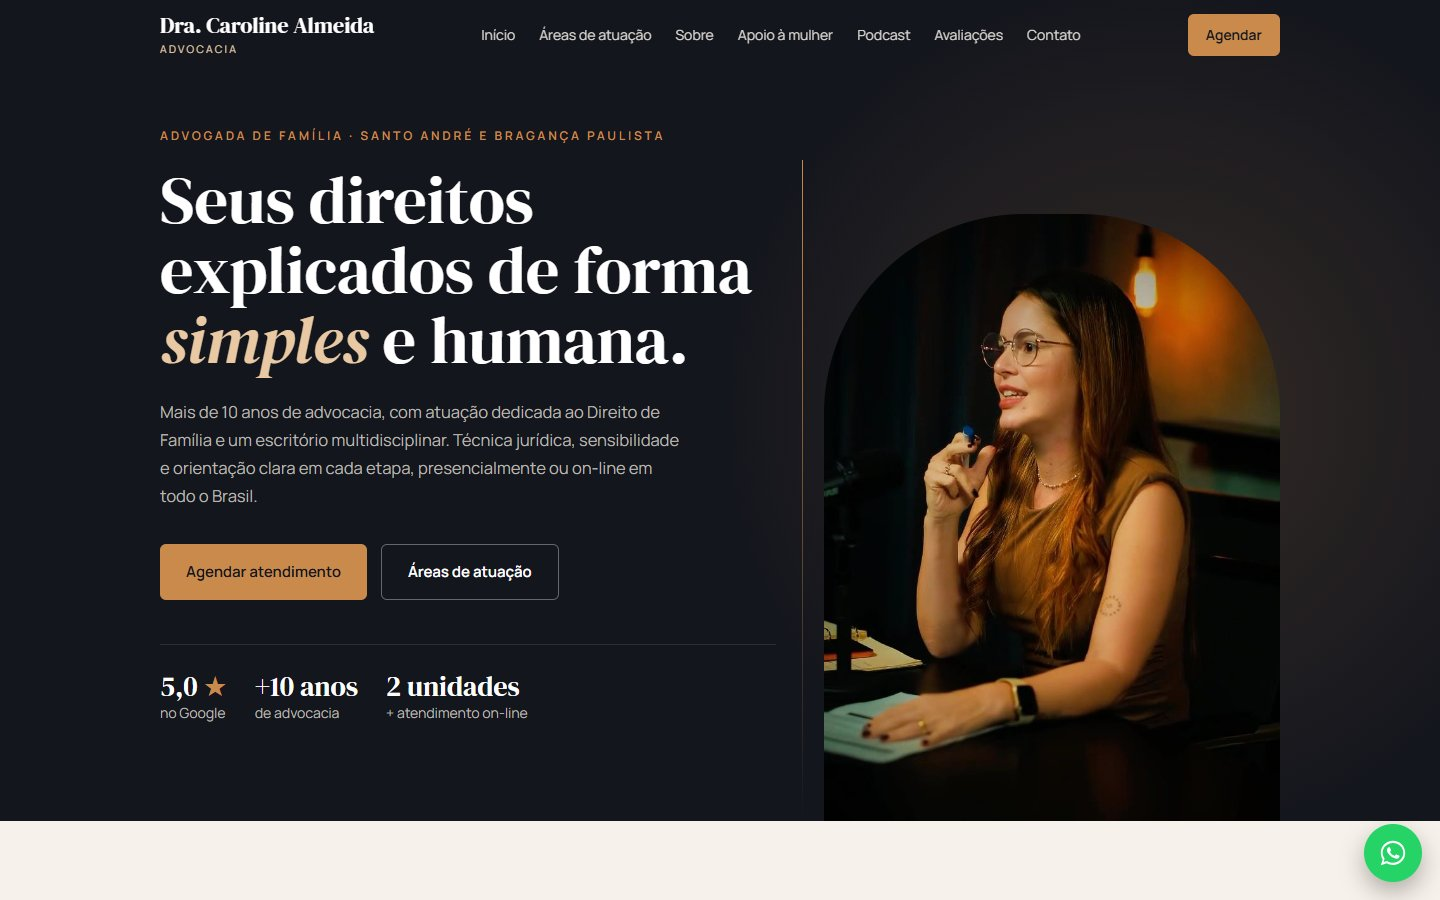
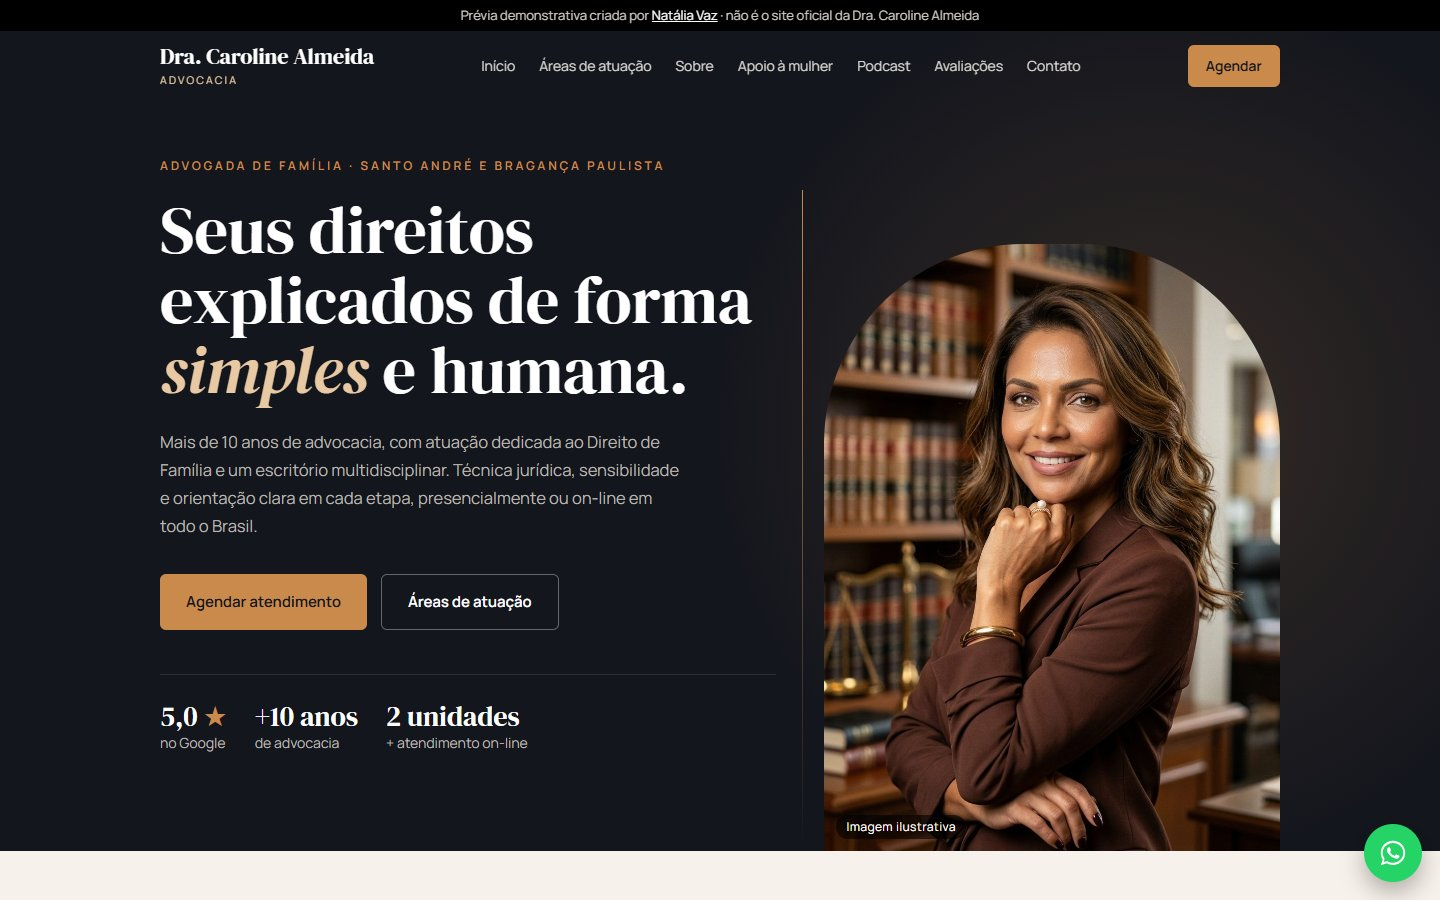
caroline-almeida: fotos ilustrativas (abordagem direta), estúdio de podcast de banco gratuito e faixa de prévia demonstrativa

diff --git a/caroline-almeida/index.html b/caroline-almeida/index.html
@@ -44,6 +44,9 @@ a{color:inherit}
 .kicker{font-size:12px;letter-spacing:.24em;text-transform:uppercase;color:var(--copper);font-weight:600}
 
 /* menu */
+.demo-bar{background:#000;color:#cfcac2;font-size:13px;line-height:1.3;text-align:center;padding:7px 16px}
+.demo-bar a{color:#fff}
+.ilustr{position:absolute;left:12px;bottom:12px;z-index:1;background:rgba(0,0,0,.6);color:#fff;font-size:12px;line-height:1;letter-spacing:.04em;padding:6px 10px;border-radius:20px}
 .nav{position:fixed;inset:0 0 auto;z-index:50;transition:background .3s,border-color .3s;border-bottom:1px solid transparent}
 .nav.solid{background:rgba(20,22,29,.94);backdrop-filter:blur(8px);border-color:rgba(255,255,255,.06)}
 .nav .wrap{display:flex;align-items:center;justify-content:space-between;height:70px}
@@ -68,7 +71,7 @@ a{color:inherit}
 .nav.open .burger span::after{transform:translateY(-6px) rotate(-45deg)}
 @media (max-width:1120px){
   .burger{display:grid}
-  .nav ul{position:fixed;top:70px;left:0;right:0;flex-direction:column;gap:0;background:var(--ink);padding:8px 16px 24px;border-bottom:1px solid rgba(255,255,255,.08);transform:translateY(-8px);opacity:0;visibility:hidden;transition:opacity .25s,transform .25s,visibility .25s}
+  .nav ul{position:absolute;top:100%;left:0;right:0;flex-direction:column;gap:0;background:var(--ink);padding:8px 16px 24px;border-bottom:1px solid rgba(255,255,255,.08);transform:translateY(-8px);opacity:0;visibility:hidden;transition:opacity .25s,transform .25s,visibility .25s}
   .nav ul a{display:block;padding:14px 4px;font-size:17px;border-bottom:1px solid rgba(255,255,255,.07)}
   .nav.open{background:var(--ink)}
   .nav.open ul{opacity:1;transform:none;visibility:visible}
@@ -76,7 +79,7 @@ a{color:inherit}
 @media (max-width:560px){.nav-right .btn.sm{display:none}.brand b{font-size:clamp(17px,5.4vw,24px)}.brand small{letter-spacing:.12em}}
 
 /* hero assimétrico */
-.hero{position:relative;background:var(--ink);color:#e7e3dc;overflow:hidden;padding:120px 0 0}
+.hero{position:relative;background:var(--ink);color:#e7e3dc;overflow:hidden;padding:150px 0 0}
 .hero::after{content:"";position:absolute;right:-10%;top:-20%;width:60%;height:140%;background:radial-gradient(circle,rgba(201,138,75,.18),transparent 60%);pointer-events:none}
 .hero .wrap{position:relative;z-index:1;display:grid;grid-template-columns:1.15fr .85fr;gap:48px;align-items:end}
 .hero-text{padding-bottom:96px}
@@ -91,7 +94,7 @@ a{color:inherit}
 .hero-photo img{width:100%;aspect-ratio:3/4;object-fit:cover;object-position:50% 40%;border-radius:200px 200px 0 0;margin-top:auto}
 .hero-photo::before{content:"";position:absolute;left:-22px;top:40px;bottom:0;width:1px;background:linear-gradient(var(--copper),transparent)}
 @media (max-width:860px){
-  .hero{padding-top:100px}
+  .hero{padding-top:140px}
   .hero .wrap{grid-template-columns:1fr;gap:8px}
   .hero-text{padding-bottom:40px}
   .hero-photo{max-width:360px;margin-inline:auto;width:100%}
@@ -147,7 +150,7 @@ a{color:inherit}
 .about h2{font-family:var(--serif);font-weight:400;color:var(--navy);font-size:clamp(32px,4.4vw,46px);line-height:1.12;margin:10px 0 20px}
 .about p{color:var(--muted);margin-bottom:16px}
 .about blockquote{font-family:var(--serif);font-style:italic;font-size:24px;color:var(--navy);border-left:2px solid var(--copper);padding-left:20px;margin:28px 0}
-@media (max-width:860px){.about{grid-template-columns:1fr;gap:44px}.about img{max-width:360px;margin-inline:auto}}
+@media (max-width:860px){.about{grid-template-columns:1fr;gap:44px}.about>.about-img{max-width:360px;margin-inline:auto}}
 
 /* podcast */
 .podcast{background:var(--ink);color:#d8d4cd}
@@ -221,7 +224,8 @@ a{color:inherit}
 
 /* sobre: no celular = título, foto, texto */
 .about{grid-template-areas:"img head" "img body";row-gap:0}
-.about>img{grid-area:img;align-self:center}
+.about>.about-img{grid-area:img;align-self:center;position:relative;width:100%;max-width:440px}
+.about-img img{max-width:none}
 .about-head{grid-area:head;align-self:end}
 .about-body{grid-area:body;align-self:start}
 @media (max-width:860px){.about{grid-template-areas:"head" "img" "body";row-gap:28px}.about-head h2{margin-bottom:0}}
@@ -247,6 +251,7 @@ a{color:inherit}
 </svg>
 
 <nav class="nav" id="nav">
+  <div class="demo-bar">Prévia demonstrativa criada por <a href="https://eunataliavaz-sys.github.io/sites-prospeccao/natalia-vaz/" target="_blank" rel="noopener">Natália Vaz</a> · não é o site oficial da Dra. Caroline Almeida</div>
   <div class="wrap">
     <a href="#inicio" class="brand"><b>Dra. Caroline Almeida</b><small>Advocacia</small></a>
     <ul id="menu">
@@ -282,7 +287,8 @@ a{color:inherit}
       </div>
     </div>
     <div class="hero-photo reveal">
-      <img src="assets/hero.jpg" alt="Dra. Caroline Almeida durante a gravação do podcast">
+      <img src="assets/hero.jpg" alt="Advogada (imagem ilustrativa)">
+      <span class="ilustr">Imagem ilustrativa</span>
     </div>
   </div>
 </header>
@@ -325,7 +331,10 @@ a{color:inherit}
 
 <section class="section" id="sobre" style="padding-top:0">
   <div class="wrap about">
-    <img class="reveal" src="assets/sobre.jpg" alt="Retrato da Dra. Caroline Almeida">
+    <div class="about-img reveal">
+      <img src="assets/sobre.jpg" alt="Advogada (imagem ilustrativa)" loading="lazy">
+      <span class="ilustr">Imagem ilustrativa</span>
+    </div>
     <div class="about-head reveal">
       <span class="kicker">Sobre</span>
       <h2>Prazer, Caroline Almeida</h2>
@@ -379,7 +388,7 @@ a{color:inherit}
         <a class="btn ghost" href="https://www.instagram.com/carolinealmeida.adv_/" target="_blank" rel="noopener"><svg class="ic" aria-hidden="true"><use href="#i-instagram"/></svg>Cortes no Instagram</a>
       </div>
     </div>
-    <img class="reveal" src="assets/podcast.jpg" alt="Dra. Caroline Almeida no estúdio do podcast Descomplicando o Direito" loading="lazy">
+    <img class="reveal" src="assets/podcast.jpg" alt="Microfone e fones de ouvido em estúdio de podcast" loading="lazy">
   </div>
 </section>
 
